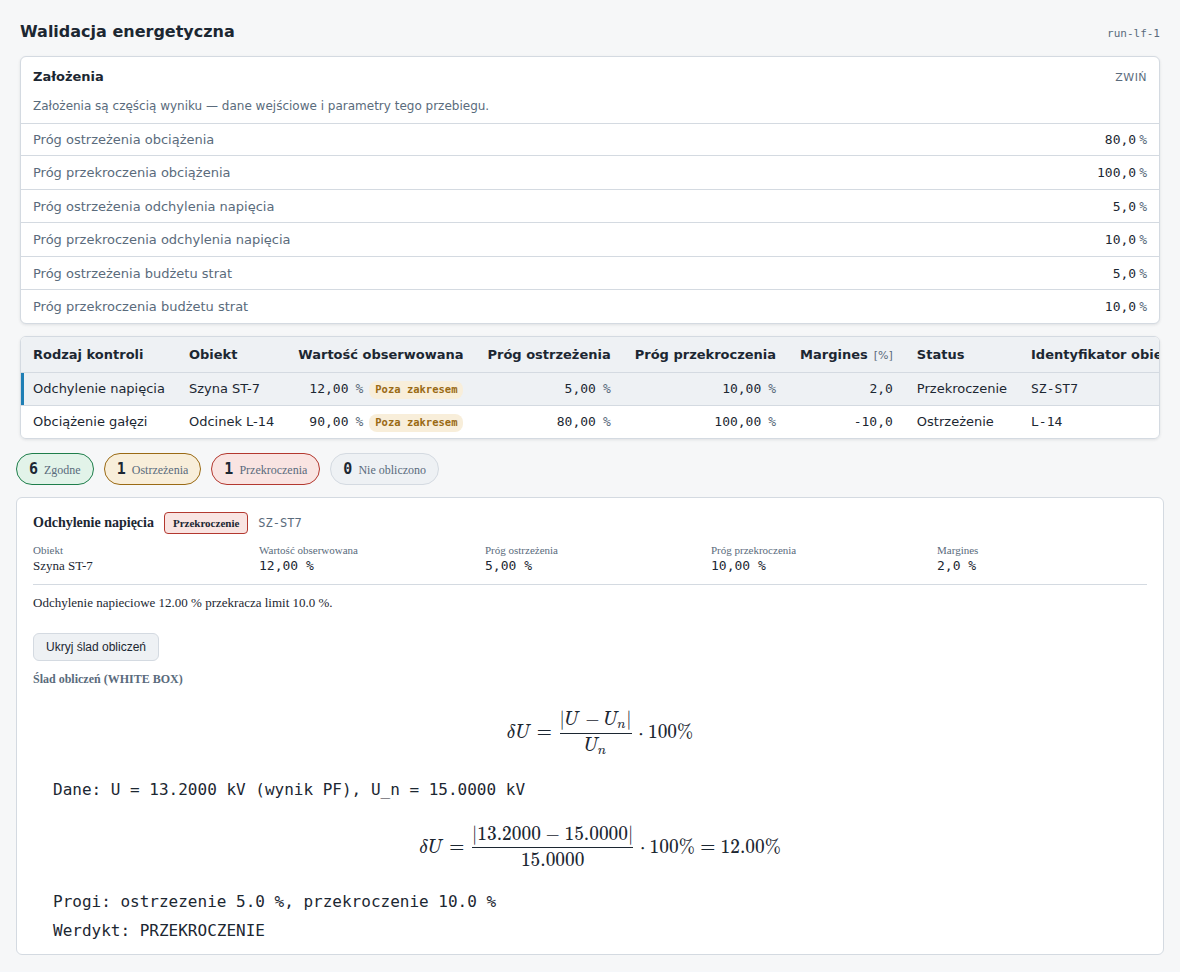
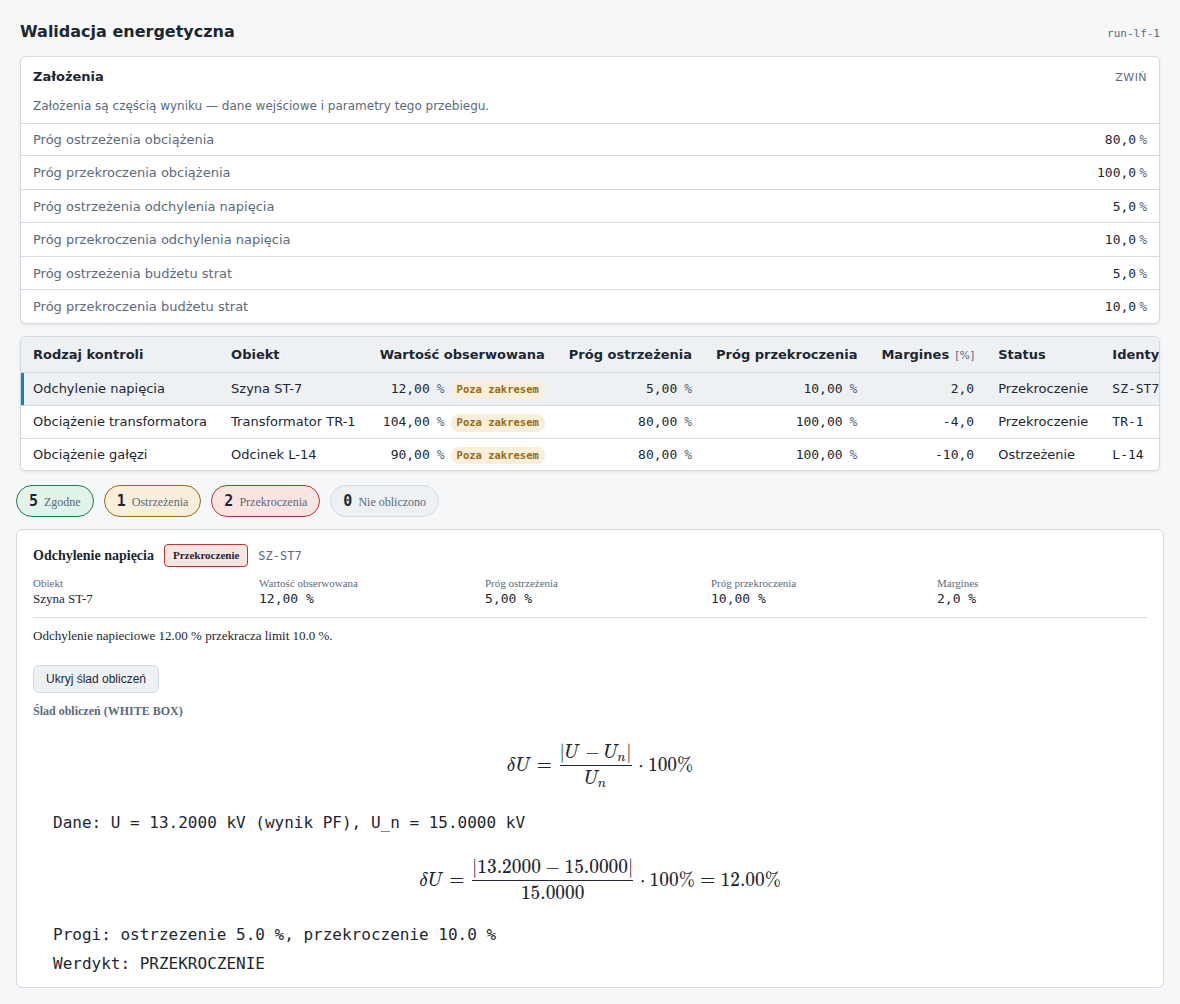
Zrzuty rundy 3 ALL IN: sceny rozplyw/zwarcia/porownanie w harnessie ocen
Trzy nowe sceny zywych ekranow (dyrektywa wlasciciela #8): tabela galezi
rozplywu z kolumna obciazalnosci i werdyktem backendu (R3-A), wyniki
zwarciowe z wkladami zrodel z dostawcy SC3F contributions (R3-B),
porownanie przebiegow A/B z wynikiem backendu i dowodami kolumn (R3-C).
Scena walidacji rozszerzona o pozycje TRANSFORMER_LOADING (wspolny stub).
Spec 16/16 zielony (8 scen x 2 motywy), twarde asercje tresci.

Claude-Session: https://claude.ai/code/session_01KyqX3x2UY6tyGCiMhNbA3u

diff --git a/mv-design-pro/frontend/src/creator-harness-main.tsx b/mv-design-pro/frontend/src/creator-harness-main.tsx
@@ -21,6 +21,10 @@ import { KreatorTransformatoraSnNn } from './ui2/kreatory/transformator';
 import { KreatorZrodloZasilania } from './ui2/kreatory/zrodlo';
 import { KreatorZrodlaOze } from './ui2/kreatory/zrodlo-oze';
 import { SekcjaArcFlash, SekcjaWalidacji } from './ui2/wyniki/jakosc/EkranJakosci';
+import { EkranRozplywu } from './ui2/wyniki/rozplyw';
+import { EkranZwarc } from './ui2/wyniki/zwarcia';
+import { EkranPorownania } from './ui2/wyniki/porownanie';
+import { useResultsInspectorStore } from './ui/results-inspector/store';
 import { EkranKompensacji } from './ui2/oze';
 import { HubDokumentacji } from './ui2/spaces/dokumentacja';
 import { PulpitProjektu } from './ui2/spaces/projekt';
@@ -109,6 +113,25 @@ window.fetch = (async (input: RequestInfo | URL, init?: RequestInit) => {
             ],
           },
           {
+            // Scena "rozplyw" (R3-A): werdykt FAIL transformatora w kolumnie obciazalnosci.
+            check_type: 'TRANSFORMER_LOADING', target_id: 'TR-1', target_name: 'Transformator TR-1',
+            observed_value: 104.0, unit: '%', limit_warn: 80.0, limit_fail: 100.0, margin_pct: -4.0,
+            status: 'FAIL', why_pl: 'Obciazenie transformatora 104.00 % przekracza limit 100.0 %.',
+            white_box: [
+              {
+                tekst: 'Wzor: obciazenie = max(|S_gora|, |S_dol|) / S_n * 100%',
+                latex: '\\varepsilon = \\frac{\\max(|S_{\\text{gora}}|, |S_{\\text{dol}}|)}{S_n} \\cdot 100\\%',
+              },
+              { tekst: 'Dane: |S_gora| = 1.6640 MVA, |S_dol| = 1.6380 MVA (wynik PF), S_n = 1.6000 MVA', latex: null },
+              {
+                tekst: 'Wynik: obciazenie = 104.00 %',
+                latex: '\\varepsilon = \\frac{1.6640}{1.6000} \\cdot 100\\% = 104.00\\%',
+              },
+              { tekst: 'Progi: ostrzezenie 80.0 %, przekroczenie 100.0 %', latex: null },
+              { tekst: 'Werdykt: PRZEKROCZENIE', latex: null },
+            ],
+          },
+          {
             check_type: 'BRANCH_LOADING', target_id: 'L-14', target_name: 'Odcinek L-14',
             observed_value: 90.0, unit: '%', limit_warn: 80.0, limit_fail: 100.0, margin_pct: -10.0,
             status: 'WARNING', why_pl: 'Obciazenie 90.00 % powyzej progu ostrzegawczego 80.0 %.',
@@ -127,7 +150,58 @@ window.fetch = (async (input: RequestInfo | URL, init?: RequestInit) => {
             ],
           },
         ],
-        summary: { pass_count: 6, warning_count: 1, fail_count: 1, not_computed_count: 0, worst_item_target_id: 'SZ-ST7', worst_item_margin_pct: 2.0 },
+        summary: { pass_count: 5, warning_count: 1, fail_count: 2, not_computed_count: 0, worst_item_target_id: 'SZ-ST7', worst_item_margin_pct: 2.0 },
+      }),
+      { status: 200, headers: { 'Content-Type': 'application/json' } },
+    );
+  }
+  if (url.includes('/api/proof/sc3f/contributions')) {
+    // Scena "zwarcia" (R3-B): rozbicie maszynowe — ksztalt 1:1 z
+    // `MachineShortCircuitResult.to_dict()` (pola konsumowane przez `naWklady`).
+    return new Response(
+      JSON.stringify({
+        contributions: [
+          { source_id: 'src-gpz', source_name: 'System (GPZ 110/15)', ikss_partial_a: 9620 },
+          { source_id: 'gen-pv-1', source_name: 'Falownik PV 4 MW', ikss_partial_a: 1730 },
+          { source_id: 'gen-bess-1', source_name: 'Magazyn BESS 2 MW', ikss_partial_a: 1130 },
+        ],
+      }),
+      { status: 200, headers: { 'Content-Type': 'application/json' } },
+    );
+  }
+  if (url.includes('/power-flow-runs')) {
+    // Scena "porownanie": lista zakonczonych przebiegow rozplywu projektu.
+    return new Response(
+      JSON.stringify({
+        runs: [
+          { id: 'run-a', project_id: 'proj-demo', study_case_id: 'K1', status: 'FINISHED', result_status: 'FRESH', created_at: '2026-07-21T10:00:00Z', finished_at: '2026-07-21T10:00:04Z', input_hash: 'hash-a', converged: true, iterations: 5 },
+          { id: 'run-b', project_id: 'proj-demo', study_case_id: 'K2', status: 'FINISHED', result_status: 'FRESH', created_at: '2026-07-21T11:00:00Z', finished_at: '2026-07-21T11:00:05Z', input_hash: 'hash-b', converged: true, iterations: 6 },
+        ],
+      }),
+      { status: 200, headers: { 'Content-Type': 'application/json' } },
+    );
+  }
+  if (url.includes('/api/power-flow-comparisons')) {
+    // Scena "porownanie" (R3-C): wynik porownania A/B — ksztalt 1:1 z
+    // `PowerFlowComparisonResult` (delty i ranking WYLACZNIE z backendu).
+    return new Response(
+      JSON.stringify({
+        comparison_id: 'cmp-demo-1', run_a_id: 'run-a', run_b_id: 'run-b', project_id: 'proj-demo',
+        bus_diffs: [
+          { bus_id: 'SZ-GPZ', v_pu_a: 1.0, v_pu_b: 1.0, angle_deg_a: 0, angle_deg_b: 0, p_injected_mw_a: 6.4, p_injected_mw_b: 5.1, q_injected_mvar_a: 1.9, q_injected_mvar_b: 1.4, delta_v_pu: 0, delta_angle_deg: 0, delta_p_mw: -1.3, delta_q_mvar: -0.5 },
+          { bus_id: 'SZ-ST7', v_pu_a: 0.941, v_pu_b: 0.972, angle_deg_a: -2.9, angle_deg_b: -2.1, p_injected_mw_a: -1.2, p_injected_mw_b: -1.2, q_injected_mvar_a: -0.4, q_injected_mvar_b: -0.1, delta_v_pu: 0.031, delta_angle_deg: 0.8, delta_p_mw: 0, delta_q_mvar: 0.3 },
+          { bus_id: 'SZ-PV2', v_pu_a: 1.062, v_pu_b: 1.038, angle_deg_a: 1.4, angle_deg_b: 1.1, p_injected_mw_a: 3.9, p_injected_mw_b: 2.6, q_injected_mvar_a: 0.2, q_injected_mvar_b: 0.4, delta_v_pu: -0.024, delta_angle_deg: -0.3, delta_p_mw: -1.3, delta_q_mvar: 0.2 },
+        ],
+        branch_diffs: [
+          { branch_id: 'L-14', p_from_mw_a: 2.31, p_from_mw_b: 1.62, q_from_mvar_a: 0.72, q_from_mvar_b: 0.48, p_to_mw_a: -2.28, p_to_mw_b: -1.6, q_to_mvar_a: -0.7, q_to_mvar_b: -0.47, losses_p_mw_a: 0.031, losses_p_mw_b: 0.015, losses_q_mvar_a: 0.018, losses_q_mvar_b: 0.009, delta_p_from_mw: -0.69, delta_q_from_mvar: -0.24, delta_p_to_mw: 0.68, delta_q_to_mvar: 0.23, delta_losses_p_mw: -0.016, delta_losses_q_mvar: -0.009 },
+          { branch_id: 'TR-1', p_from_mw_a: 1.66, p_from_mw_b: 1.31, q_from_mvar_a: 0.5, q_from_mvar_b: 0.38, p_to_mw_a: -1.64, p_to_mw_b: -1.3, q_to_mvar_a: -0.48, q_to_mvar_b: -0.37, losses_p_mw_a: 0.021, losses_p_mw_b: 0.013, losses_q_mvar_a: 0.02, losses_q_mvar_b: 0.012, delta_p_from_mw: -0.35, delta_q_from_mvar: -0.12, delta_p_to_mw: 0.34, delta_q_to_mvar: 0.11, delta_losses_p_mw: -0.008, delta_losses_q_mvar: -0.008 },
+        ],
+        ranking: [
+          { issue_code: 'VOLTAGE_DELTA_HIGH', severity: 4, element_ref: 'SZ-ST7', description_pl: 'Napiecie na szynie ST-7 rosnie o 0.031 pu po zalaczeniu kompensacji.', evidence_ref: 1 },
+          { issue_code: 'LOSSES_DECREASED', severity: 2, element_ref: 'L-14', description_pl: 'Straty czynne odcinka L-14 spadaja o 16 kW.', evidence_ref: 2 },
+        ],
+        summary: { total_buses: 3, total_branches: 2, converged_a: true, converged_b: true, total_losses_p_mw_a: 0.052, total_losses_p_mw_b: 0.028, delta_total_losses_p_mw: -0.024, max_delta_v_pu: 0.031, max_delta_angle_deg: 0.8, total_issues: 2, critical_issues: 0, major_issues: 1, moderate_issues: 0, minor_issues: 1 },
+        input_hash: 'hash-cmp-demo', created_at: '2026-07-22T09:00:00Z',
       }),
       { status: 200, headers: { 'Content-Type': 'application/json' } },
     );
@@ -294,6 +368,50 @@ if (creator === 'arcflash') {
       ],
     },
   } as never);
+} else if (creator === 'rozplyw') {
+  // Rozplyw z kolumna obciazalnosci (R3-A/V12K-110): wynik PF read-only +
+  // werdykty z podmienionego endpointu walidacji (target_id = branch_id).
+  usePowerFlowResultsStore.setState({
+    results: {
+      result_version: '1.0', converged: true, iterations_count: 5, tolerance_used: 1e-6,
+      base_mva: 100, slack_bus_id: 'SZ-GPZ',
+      bus_results: [
+        { bus_id: 'SZ-GPZ', v_pu: 1.0, angle_deg: 0, p_injected_mw: 6.4, q_injected_mvar: 1.9 },
+        { bus_id: 'SZ-ST7', v_pu: 0.941, angle_deg: -2.9, p_injected_mw: -1.2, q_injected_mvar: -0.4 },
+        { bus_id: 'SZ-PV2', v_pu: 1.062, angle_deg: 1.4, p_injected_mw: 3.9, q_injected_mvar: 0.2 },
+      ],
+      branch_results: [
+        { branch_id: 'L-14', from_bus_id: 'SZ-GPZ', to_bus_id: 'SZ-ST7', p_from_mw: 2.31, q_from_mvar: 0.72, p_to_mw: -2.28, q_to_mvar: -0.7, losses_p_mw: 0.031, losses_q_mvar: 0.018 },
+        { branch_id: 'TR-1', from_bus_id: 'SZ-ST7', to_bus_id: 'SZ-NN1', p_from_mw: 1.66, q_from_mvar: 0.5, p_to_mw: -1.64, q_to_mvar: -0.48, losses_p_mw: 0.021, losses_q_mvar: 0.02 },
+        { branch_id: 'L-2', from_bus_id: 'SZ-GPZ', to_bus_id: 'SZ-PV2', p_from_mw: -3.88, q_from_mvar: -0.19, p_to_mw: 3.9, q_to_mvar: 0.2, losses_p_mw: 0.019, losses_q_mvar: 0.011 },
+      ],
+      summary: { total_losses_p_mw: 0.071, total_losses_q_mvar: 0.049, min_v_pu: 0.941, max_v_pu: 1.062, slack_p_mw: 6.4, slack_q_mvar: 1.9 },
+    },
+    runHeader: { id: 'run-lf-1' },
+  } as never);
+} else if (creator === 'zwarcia') {
+  // Wyniki zwarciowe z wkladami zrodel (R3-B/V12K-109): tabela punktow ze
+  // store'u read-only, wklady z podmienionego endpointu SC3F contributions.
+  useResultsInspectorStore.setState({
+    shortCircuitResults: {
+      run_id: 'run-sc-2',
+      rows: [
+        { target_id: 'SZ-GPZ', element_id: 'SZ-GPZ', target_name: 'Szyna GPZ 15 kV', ikss_ka: 12.48, ip_ka: 31.2, ith_ka: 12.9, sk_mva: 324.2, fault_type: '3F', flags: [] },
+        { target_id: 'SZ-ST7', element_id: 'SZ-ST7', target_name: 'Szyna ST-7', ikss_ka: 6.05, ip_ka: 13.9, ith_ka: 6.2, sk_mva: 157.2, fault_type: '3F', flags: [] },
+        { target_id: 'SZ-PV2', element_id: 'SZ-PV2', target_name: 'Szyna PV-2', ikss_ka: 7.31, ip_ka: 17.4, ith_ka: 7.5, sk_mva: 189.9, fault_type: '3F', flags: [] },
+      ],
+    },
+    selectedRunId: 'run-sc-2',
+  } as never);
+} else if (creator === 'porownanie') {
+  // Porownanie przebiegow A/B (R3-C/V12K-111): lista przebiegow i wynik
+  // porownania z podmienionego fetch; nazwy przypadkow ze store'u.
+  useStudyCasesStore.setState({
+    cases: [
+      { id: 'K1', name: 'Stan normalny' },
+      { id: 'K2', name: 'Wariant z kompensacja' },
+    ],
+  } as never);
 } else if (creator === 'swiezosc') {
   // Pasek aktywnego przypadku (K4/V12K-102): wyniki NIEAKTUALNE → klikalny znacznik.
   // Chip wyników renderuje się wyłącznie przy obecnym projekcie (projectPresent).
@@ -366,6 +484,19 @@ function Harness() {
         onOtworzDowod={() => undefined}
       />
     );
+  else if (creator === 'rozplyw')
+    node = <EkranRozplywu trybZaawansowania="expert" onOtworzDowod={() => undefined} />;
+  else if (creator === 'zwarcia')
+    node = (
+      <EkranZwarc
+        trybZaawansowania="expert"
+        onOtworzDowod={() => undefined}
+        wspolczynnikC={1.1}
+        czasCieplnyS={1.0}
+      />
+    );
+  else if (creator === 'porownanie')
+    node = <EkranPorownania projektId="proj-demo" trybZaawansowania="expert" />;
   else if (creator === 'kompensacja')
     node = (
       <EkranKompensacji

diff --git a/mv-design-pro/frontend/e2e/flow-ekspert-screenshot.spec.ts b/mv-design-pro/frontend/e2e/flow-ekspert-screenshot.spec.ts
@@ -17,7 +17,16 @@ const _dirname = path.dirname(fileURLToPath(import.meta.url));
 const HARNESS_URL = 'http://127.0.0.1:5173/creator-harness.html';
 const OUTPUT_DIR = path.resolve(_dirname, '../../docs/audit/visual/flow-ekspert');
 
-const SCENY = ['pulpit', 'uwaga', 'swiezosc', 'walidacja', 'kompensacja'] as const;
+const SCENY = [
+  'pulpit',
+  'uwaga',
+  'swiezosc',
+  'walidacja',
+  'kompensacja',
+  'rozplyw',
+  'zwarcia',
+  'porownanie',
+] as const;
 const THEMES = ['light', 'dark'] as const;
 
 test.describe('flow-ekspert:screenshot', () => {
@@ -62,6 +71,24 @@ test.describe('flow-ekspert:screenshot', () => {
           await page.getByRole('row').filter({ hasText: 'Odchylenie napięcia' }).click();
           await page.getByTestId('mvd-jakosc-wal-slad-otworz').click();
           await expect(page.getByTestId('mvd-jakosc-wal-slad')).toContainText('Werdykt: PRZEKROCZENIE');
+        } else if (scena === 'rozplyw') {
+          // R3-A: podzakladka Galezie -> kolumna "Obciazenie [%]" z werdyktem
+          // backendu (TR-1 FAIL 104 %, L-14 WARNING 90 %).
+          await page.getByTestId('mvd-rozplyw-podzakladka-galezie').click();
+          await expect(page.getByTestId('mvd-wyn-th-obciazenie')).toBeVisible();
+          await expect(page.getByTestId('mvd-wyn-tabela')).toContainText('104,0');
+        } else if (scena === 'zwarcia') {
+          // R3-B: sekcja wkladow dla domyslnego punktu z realnego dostawcy
+          // (endpoint SC3F contributions, podmieniony fetch).
+          await expect(page.getByTestId('mvd-zwarcia-wklady')).toContainText('Falownik PV 4 MW');
+        } else if (scena === 'porownanie') {
+          // R3-C: wybor pary A/B + jawne "Porownaj przebiegi" -> wynik z tabela
+          // szyn (kolumny A i B z dowodami wlasciwego przebiegu).
+          await page.getByTestId('mvd-por-select-a').selectOption('run-a');
+          await page.getByTestId('mvd-por-select-b').selectOption('run-b');
+          await page.getByTestId('mvd-por-przycisk').click();
+          await expect(page.getByTestId('mvd-por-wynik')).toBeVisible();
+          await expect(page.getByTestId('mvd-por-wynik')).toContainText('SZ-ST7');
         } else {
           // R2-B: pre-selekcja wezla z deep-linku widoczna w polu wyboru.
           await expect(page.getByTestId('mvd-komp-wezel')).toHaveValue('SZ-ST7');
